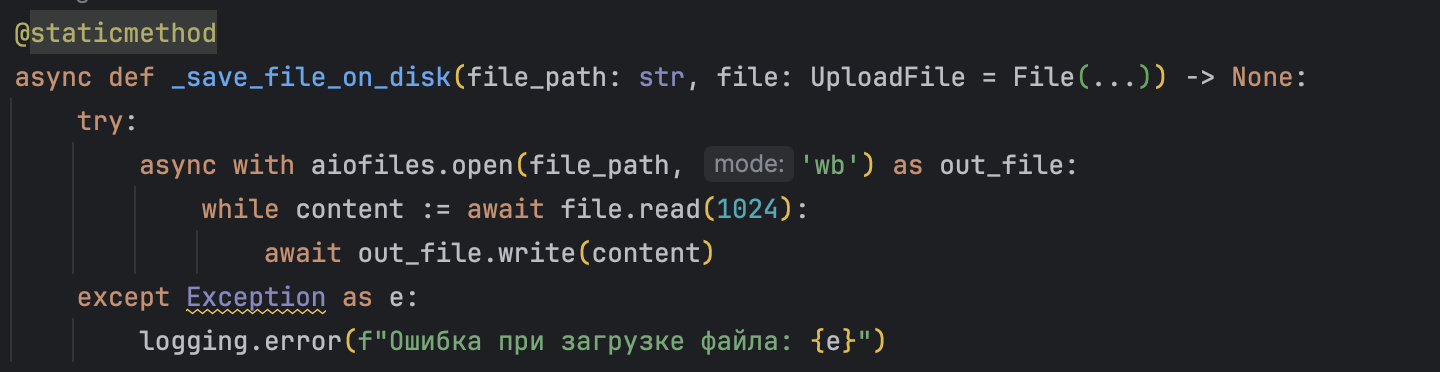
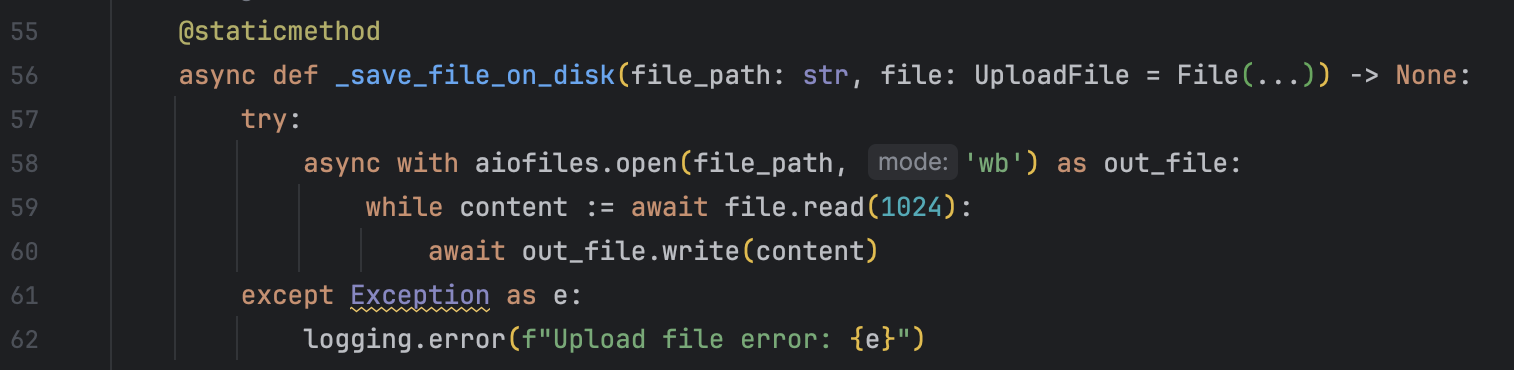
update readme

diff --git a/src/usecases/document.py b/src/usecases/document.py
@@ -59,7 +59,7 @@ class DocumentsUseCase:
                 while content := await file.read(1024):
                     await out_file.write(content)
         except Exception as e:
-            logging.error(f"Ошибка при загрузке файла: {e}")
+            logging.error(f"Upload file error: {e}")
 
     @staticmethod
     async def _delete_files_on_disk(file_names: Iterable[str]) -> None:
@@ -74,7 +74,7 @@ class DocumentsUseCase:
                 os.remove(file_path)
                 logging.info(f"File removed {file_path}")
         except Exception as e:
-            logging.error(f"Ошибка при удалении файлов: {e}")
+            logging.error(f"Delete file error: {e}")
 
     async def upload_file(self, files: list[UploadFile]) -> None:
         async with (
